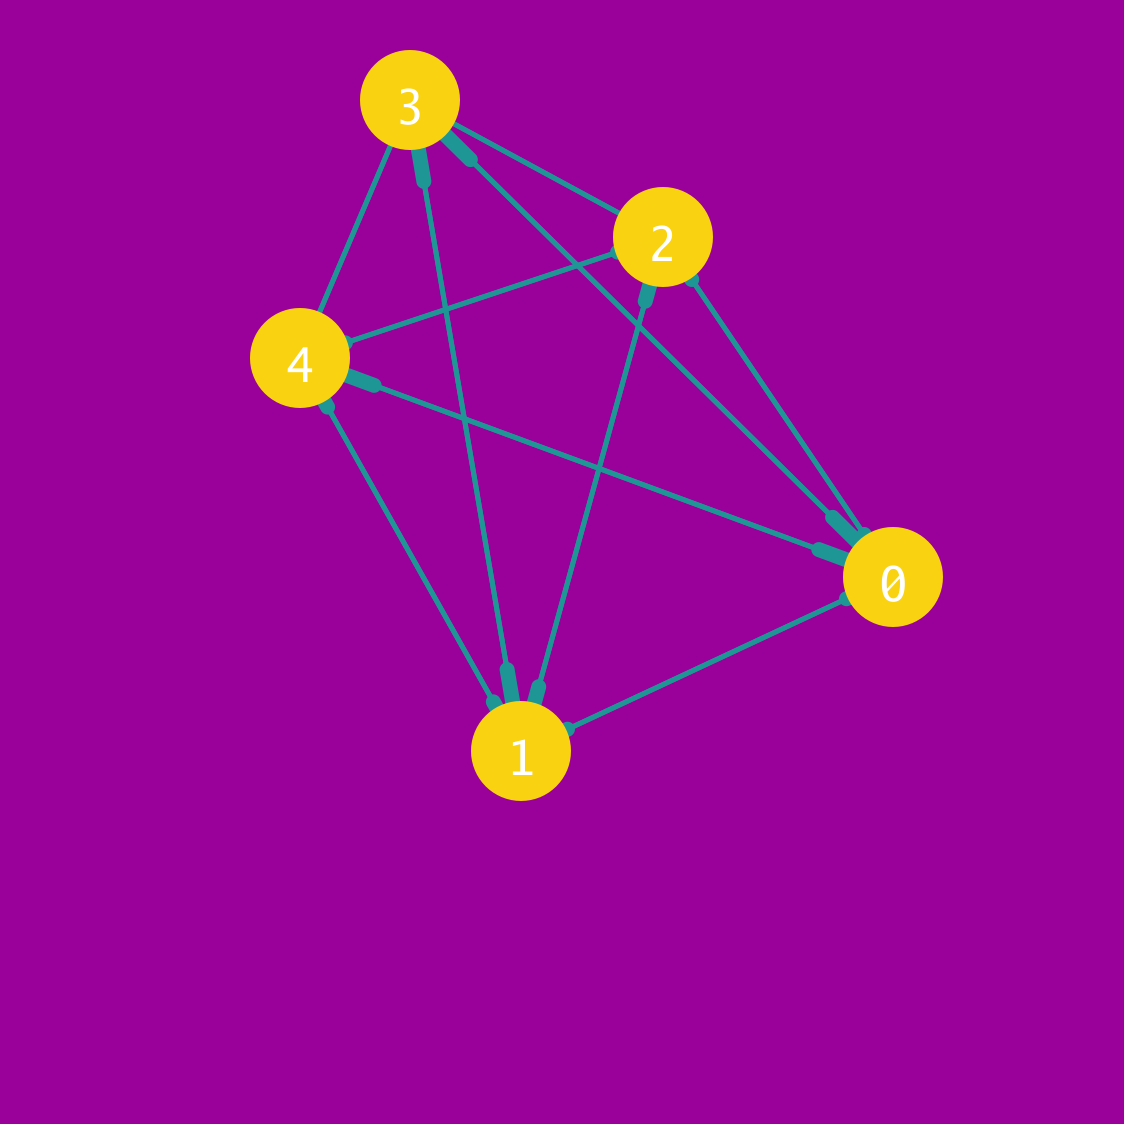
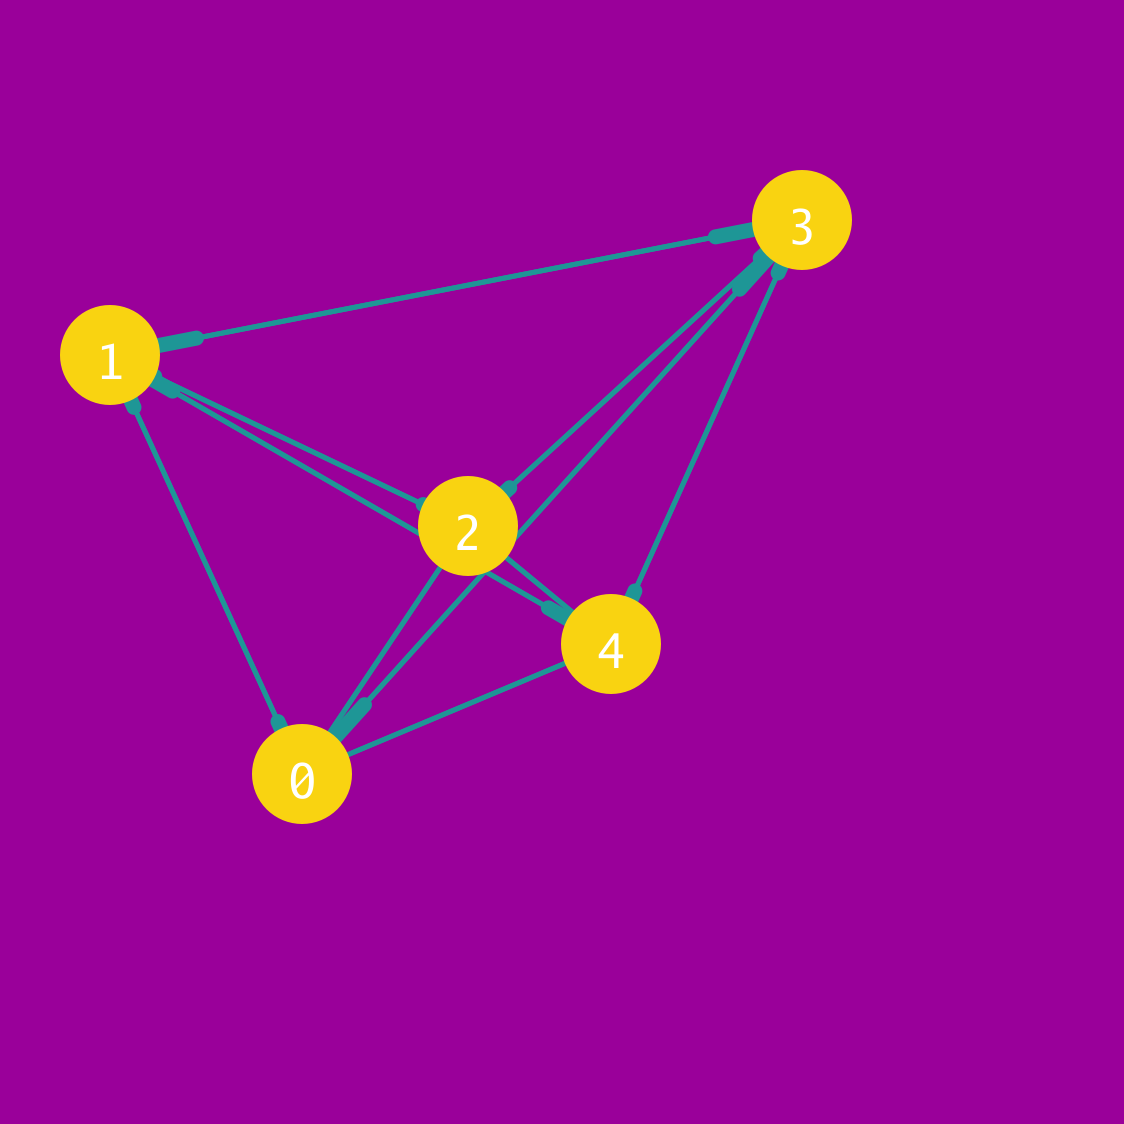
4.2 done

diff --git a/main.go b/main.go
@@ -18,9 +18,7 @@ func reflecsive(r [5][5]int) bool {
 	for i := 0; i < 5; i++ {
 		for j := 0; j < 5; j++ {
 			if i == j {
-				if r[i][j] != 1 {
-					return false
-				}
+
 			}
 		}
 	}
@@ -122,7 +120,7 @@ func connected(r [5][5]int) bool {
 func findMax(r [5][5]int) []int {
 	res := []int{}
 	for i := 0; i < 5; i++ {
-		if r[i] == [5]int{1, 1, 1, 1, 1} {
+		if r[i][0] == 1 && r[i][1] == 1 && r[i][2] == 1 && r[i][3] == 1 && r[i][4] == 1 {
 			res = append(res, i)
 		}
 	}
@@ -137,7 +135,7 @@ func findMax(r [5][5]int) []int {
 func findMin(r [5][5]int) []int {
 	res := []int{}
 	for i := 0; i < 5; i++ {
-		if r[:][i] == [5]int{1, 1, 1, 1, 1} {
+		if r[0][i] == 1 && r[1][i] == 1 && r[2][i] == 1 && r[3][i] == 1 && r[4][i] == 1 {
 			res = append(res, i)
 		}
 	}
@@ -167,7 +165,7 @@ func findMinor(r [5][5]int) []int {
 func findMajor(r [5][5]int) []int {
 	res := []int{}
 	for i := 0; i < 5; i++ {
-		if r[:][i] == [5]int{0, 0, 0, 0, 0} {
+		if r[0][i] == 0 && r[1][i] == 0 && r[2][i] == 0 && r[3][i] == 0 && r[4][i] == 0 {
 			res = append(res, i)
 		}
 	}
@@ -180,32 +178,32 @@ func findMajor(r [5][5]int) []int {
 
 func main() {
 	r := [5][5]int{
-		{0, 0, 1, 1, 0},
-		{0, 0, 1, 1, 0},
+		{1, 1, 1, 1, 1},
+		{1, 0, 1, 1, 0},
 		{1, 1, 0, 1, 1},
 		{1, 1, 1, 0, 1},
-		{0, 0, 1, 1, 0}}
+		{1, 0, 1, 1, 0}}
 	draw(r, "r")
 
-	// fmt.Print("Відношення еквівалентності ")
-	// fmt.Println(reflecsive(r) && symmetrical(r) && transit(comp(r, r), r))
-
-	// fmt.Print("Відношення нестрогого порядку ")
-	// fmt.Println(reflecsive(r) && asymmetrical(r) && transit(comp(r, r), r))
-
-	// fmt.Print("Відношення строгого порядку ")
-	// fmt.Println(reflecsive(r) && asymmetrical(r) && transit(comp(r, r), r))
-
-	// fmt.Print("Відношення лінійного порядку ")
-	// fmt.Println(reflecsive(r) && antysymmetrical(r) && transit(comp(r, r), r))
-
-	// fmt.Print("Відношення домінування ")
-	// fmt.Println(antyreflecsive(r) && asymmetrical(r))
-
-	// fmt.Print("Відношення подібності ")
-	// fmt.Println(reflecsive(r) && symmetrical(r))
-
 	fmt.Print("Відношення еквівалентності ")
+	fmt.Println(reflecsive(r) && symmetrical(r) && transit(comp(r, r), r))
+
+	fmt.Print("Відношення нестрогого порядку ")
+	fmt.Println(reflecsive(r) && asymmetrical(r) && transit(comp(r, r), r))
+
+	fmt.Print("Відношення строгого порядку ")
+	fmt.Println(reflecsive(r) && asymmetrical(r) && transit(comp(r, r), r))
+
+	fmt.Print("Відношення лінійного порядку ")
+	fmt.Println(reflecsive(r) && antysymmetrical(r) && transit(comp(r, r), r))
+
+	fmt.Print("Відношення домінування ")
+	fmt.Println(antyreflecsive(r) && asymmetrical(r))
+
+	fmt.Print("Відношення подібності ")
+	fmt.Println(reflecsive(r) && symmetrical(r))
+
+	fmt.Println("Відношення еквівалентності ")
 	c := comp(r, ober(r))
 	for _, a := range c {
 		for _, v := range a {
@@ -217,18 +215,7 @@ func main() {
 	fmt.Print("Відношення еквівалентності ")
 	fmt.Println(reflecsive(c) && symmetrical(c) && transit(comp(c, c), c))
 
-	// fmt.Print("Відношення домінування ")
-	// c := comp(r, ober(r))
-	// for _, a := range c {
-	// 	for _, v := range a {
-	// 		fmt.Print(v, " ")
-	// 	}
-	// 	fmt.Println()
-	// }
-	// fmt.Print("Відношення домінування ")
-	// fmt.Println(antyreflecsive(c) && asymmetrical(c))
-
-	fmt.Print("Відношення толерантності ")
+	fmt.Println("Відношення толерантності ")
 	c = ob(ob(r, ober(r)), per(r, ober(r)))
 	for _, a := range c {
 		for _, v := range a {
@@ -237,8 +224,10 @@ func main() {
 		fmt.Println()
 	}
 	draw(c, "tolerant")
+	fmt.Print("Відношення толерантності ")
+	fmt.Println(reflecsive(c) && symmetrical(c))
 
-	fmt.Print("Відношення строгої переваги ")
+	fmt.Println("Відношення строгої переваги ")
 	c = riz(r, ober(r))
 	for _, a := range c {
 		for _, v := range a {
@@ -247,6 +236,8 @@ func main() {
 		fmt.Println()
 	}
 	draw(c, "strong_advandage")
+	fmt.Print("Відношення строгої переваги ")
+	fmt.Println(antyreflecsive(c) && symmetrical(c))
 
 	fmt.Print("Максимум ")
 	if m := findMax(r); m != nil {
